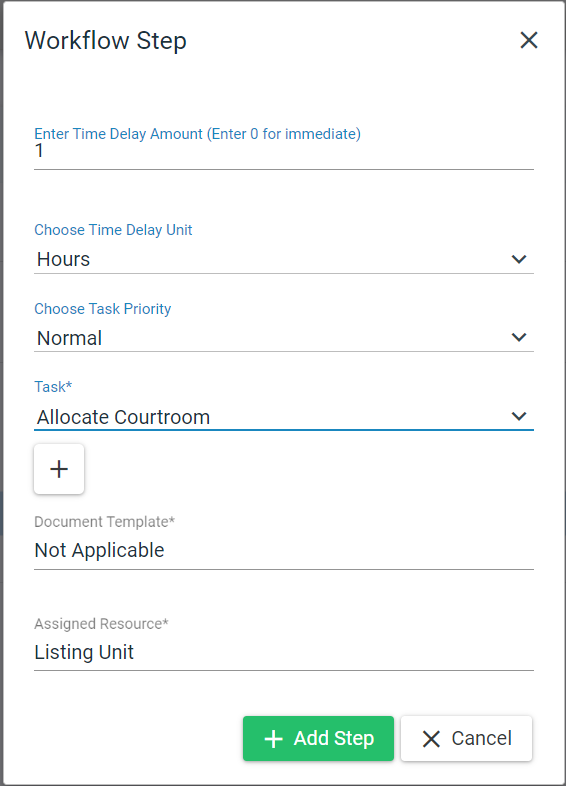
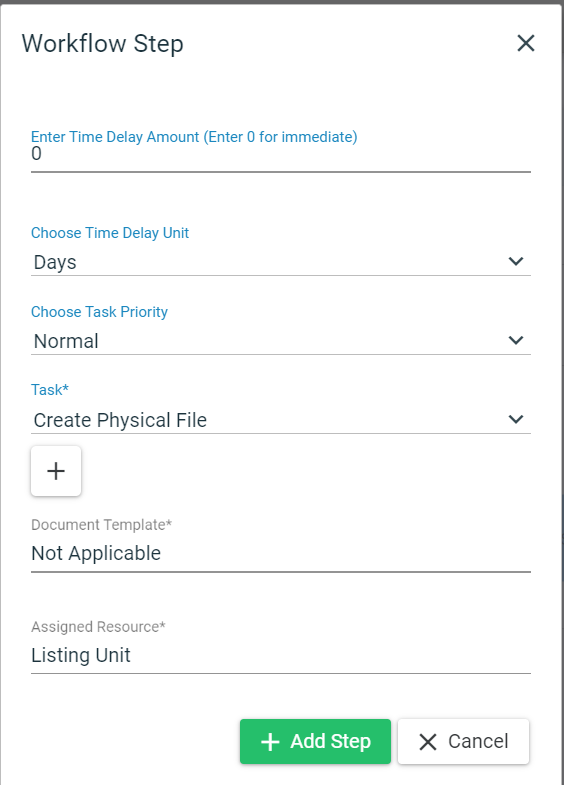
Manual Updated

diff --git a/manual/index.html b/manual/index.html
@@ -21,6 +21,10 @@
   <![endif]-->
 </head>
 <body>
+<section>
+	<img src="./images/ttjim-logo.png" />
+	<h3>Version 2.0 (Criminal Division)</h3>
+</section>
 <nav id="TOC" role="doc-toc">
 <ul>
 <li><a href="#tt.jim---the-court-case-management-system">TT.jim - The Court Case Management System</a>
@@ -83,10 +87,13 @@
 <li><a href="#adding-user-to-staff-pool">Adding User to Staff Pool</a></li>
 </ul></li>
 </ul></li>
-<li><a href="#event-workflows">Event Workflows</a></li>
+<li><a href="#event-workflows">Event Workflows</a>
+<ul>
+<li><a href="#creating-event-workflows">Creating Event Workflows</a></li>
+</ul></li>
 <li><a href="#lookup-tables">Lookup Tables</a>
 <ul>
-<li><a href="#updating-lookup-table">Updating Lookup Table</a></li>
+<li><a href="#updating-lookup-tables">Updating Lookup Tables</a></li>
 </ul></li>
 <li><a href="#thank-you-for-reading">Thank you for Reading!</a></li>
 </ul>
@@ -125,7 +132,7 @@ Version 2.0 (Criminal Division)
 <p>The <em>parties</em> to a case should be created before creating the actual case. Before attempting to create a party, the user should <strong>ALWAYS</strong> search TT.jim for the prospected party before entering it into the system. This practice prevents duplicate parties being entered into the Court Case Management System (CCMS). Duplicate entries should be avoided because Parties cannot be deleted from the system. This is a transparency feature implemented for auditing purposes.</p>
 <p>To search for a party, go to the party tab and select “Search Party”</p>
 <p><img src="./images/party-search.png" /></p>
-<p>Enter the first name or last name of the party you are looking for. This search does not search for a full name (Please be reminded of that). Click enter to complete your search.</p>
+<p>Enter the first name or last name or full name of the party you are looking for. You can even search using a party’s alias. Click enter to complete your search.</p>
 <p>The reset button clears the fields in preparation for another search.</p>
 <p><img src="./images/party-search-result.png" /></p>
 <p>If the user does not exist, the system would return zero results found.</p>
@@ -394,31 +401,147 @@ Version 2.0 (Criminal Division)
 <p>To search for a user enter a first name or last name in the search box and click/tap the search button. Partial names are also acceptable. The system will then return a list of results that match the search criteria or indicate if no results were found.</p>
 <p><img src="./images/search-user.png" /></p>
 <h3 id="creating-a-new-user-staff">Creating a New User (Staff)</h3>
-<p>If a user is not found after a search one, you can then create a new user. When creating a user input the standard bio data such as names and email address, then assign a password.</p>
-<p>Additionally, assign the user to a court that they represent and the role they will play. TT.jim supports the following roles:</p>
-<ol type="1">
-<li>Accounting Assistant</li>
-<li>Assistant Registrar &amp; Deputy Marshal</li>
-<li>Assistant Registrar and Deputy Marshall</li>
-<li>Case Management Officer</li>
-<li>Clerical assistance to Court Manager</li>
-<li>Counter Clerk</li>
-<li>Counter Supervisor</li>
-<li>Court Manager</li>
-<li>Court Staff</li>
-<li>Front Desk and Counter</li>
-<li>IT - Full access</li>
-<li>Judicial Officer</li>
-<li>Marshall</li>
-<li>Pre Hearing</li>
-<li>Read Only</li>
-<li>Records Supervisor</li>
-<li>Registrar</li>
-<li>TGO - Power User</li>
-<li>Typist / Data Entry</li>
-<li>Verification Officers</li>
-</ol>
+<p>If a user is not found after a search, you should then go ahead and create a new user. Tap the “New User” button on the User Management page to clear the USER DETAILS fields and scroll down to the now blank USER DETAILS fields.</p>
 <p><img src="./images/create-user.png" /></p>
+<p>When creating a staff user, the following fields are required:</p>
+<ol type="1">
+<li><p>First Name</p>
+<p>The first name of the staff. This will be displayed in the top right of the TT.jim window next to the default user avatar.</p></li>
+<li><p>Last Name</p>
+<p>The last name of the staff. This will be displayed in the top right of the TT.jim window next to the default user avatar.</p></li>
+<li><p>Email Address</p>
+<p>A valid email address that contains the, @, character with an identifier on the left and domain on the right. E.g. jdoe@ttlawcourts.org</p></li>
+<li><p>User Name</p>
+<p>The User Name should reflect the format of the Username in Active Directory. This is used to login to the system.</p></li>
+<li><p>Password</p>
+<p>The password must be at least 6 characters.</p></li>
+<li><p>Confirm Password</p>
+<p>The password must be retyped exactly as in the previous field.</p></li>
+</ol>
+<p>Additionally, a user must be assigned to at least one court and be assigned at least one role in that court before a user can be successfully created. TT.jim supports the following roles:</p>
+<ul>
+<li>Court Staff</li>
+<li>Supervisor</li>
+<li>Court Manager</li>
+<li>Judicial Officer</li>
+<li>IT - Full access</li>
+<li>Registrar</li>
+</ul>
+<p>See the table below for a list of roles, and the functions that each role is able to carry out in TT.jim.</p>
+<table style="width:100%;">
+<colgroup>
+<col style="width: 10%" />
+<col style="width: 14%" />
+<col style="width: 14%" />
+<col style="width: 16%" />
+<col style="width: 23%" />
+<col style="width: 10%" />
+<col style="width: 11%" />
+</colgroup>
+<thead>
+<tr class="header">
+<th>Function/Permission</th>
+<th>Court Staff</th>
+<th>Supervisor</th>
+<th>Court Manager</th>
+<th>Judicial Officer</th>
+<th>IT - Full access</th>
+<th>Registrar</th>
+</tr>
+</thead>
+<tbody>
+<tr class="odd">
+<td>Create Task</td>
+<td>No</td>
+<td>Yes</td>
+<td>Yes</td>
+<td>Yes</td>
+<td>Yes</td>
+<td>Yes</td>
+</tr>
+<tr class="even">
+<td>Edit Task Details (before being completed)</td>
+<td>No (only task checkout and completed fields)</td>
+<td>Yes</td>
+<td>Yes</td>
+<td>Yes</td>
+<td>Yes</td>
+<td>Yes</td>
+</tr>
+<tr class="odd">
+<td>Edit Payment Method and Receipt Number</td>
+<td>No</td>
+<td>No</td>
+<td>Yes</td>
+<td>No</td>
+<td>No</td>
+<td>No</td>
+</tr>
+<tr class="even">
+<td>Reimburse Payments</td>
+<td>No</td>
+<td>Yes</td>
+<td>no</td>
+<td>No</td>
+<td>No</td>
+<td>No</td>
+</tr>
+<tr class="odd">
+<td>Create a case</td>
+<td>Yes</td>
+<td>Yes</td>
+<td>No</td>
+<td>Yes</td>
+<td>Yes</td>
+<td>Yes</td>
+</tr>
+<tr class="even">
+<td>Create a Party</td>
+<td>Yes</td>
+<td>Yes</td>
+<td>No</td>
+<td>Yes</td>
+<td>Yes</td>
+<td>Yes</td>
+</tr>
+<tr class="odd">
+<td>Manage Staff Pools</td>
+<td>No</td>
+<td>Yes</td>
+<td>Yes</td>
+<td>No</td>
+<td>Yes</td>
+<td>No</td>
+</tr>
+<tr class="even">
+<td>Manage Workflows</td>
+<td>No</td>
+<td>No</td>
+<td>Yes</td>
+<td>No</td>
+<td>Yes</td>
+<td>No</td>
+</tr>
+<tr class="odd">
+<td>Manage Users</td>
+<td>No</td>
+<td>No</td>
+<td>No</td>
+<td>No</td>
+<td>Yes</td>
+<td>No</td>
+</tr>
+<tr class="even">
+<td>Seal Cases</td>
+<td>No</td>
+<td>No</td>
+<td>No</td>
+<td>No</td>
+<td>No</td>
+<td>Yes</td>
+</tr>
+</tbody>
+</table>
 <h2 id="staff-pool-management">Staff Pool Management</h2>
 <p>To simplify the management of users, TT.jim supports the use of staff pools to group users. This grouping is particularly useful for making various task visible to a whole class of staff.</p>
 <h3 id="searchingbrowsing-staff-pools">Searching/Browsing Staff Pools</h3>
@@ -429,13 +552,26 @@ Version 2.0 (Criminal Division)
 <p>TT.jim has the following staff pools: 1. Bail Management Unit 2. Bail Officer 3. Clerk Typists 4. Counter and Front Desk 5. Court Managers and Assistant Court Managers 6. Data Entry and Imaging Officer 7. Dispatch Management Unit 8. District Clerk of the Peace 9. Front Desk (only) - Further Data Entry and Imaging 10. JSO &amp; Ass. JSO 11. Judgement and Orders, Warrants, Summons etc. Unit 12. Judicial Support Officer (JSO) 13. Judicial Team 14. Justice of the Peace 15. Listing Unit 16. Magistracy Registrar 17. Magistracy Registrar and Clerk of the Court 18. Monitoring and Follow Up 19. Records Management Unit 20. Records Officer 21. Revenue Activities Unit 22. Statistical Unit 23. Transcriptionist 24. Verification Officers 25. Witness and Courtroom Support Unit</p>
 <p><img src="./images/add-staff-to-pool.png" /></p>
 <h1 id="event-workflows">Event Workflows</h1>
-<p>Event workflows determine the event or sequence of events that must occur when another action is initiated/completed. For example (contrived), take the <em>Case Created</em> Event. This event triggers two task: Calendar Next Date and Execution of Warrant. Hence, these task will be automatically populated in the task tab when a case is created and show up in the workbasket of all users connected in the <a href="#staff-pool-management">staff pool</a> associated with that case. It will even display how much time it should take to complete each task</p>
+<p>Event workflows determine the event or sequence of events/tasks that must occur when another action is initiated/completed. Event workflows help streamline common repetitive tasks, thus saving time and reducing the likelihood of human error.</p>
+<h2 id="creating-event-workflows">Creating Event Workflows</h2>
+<p>To create an event workflow, select “Event Workflow” from the Admin tab. Insert an Event Type and optional Description. Next click/tap the “Add Task Step” button to add the first of the series of steps needed for this workflow.</p>
+<p><img src="./images/event-workflows-blank.png" /></p>
+<p>When adding a task step, fill out the Workflow Step (see below) details and click the “Add Step” button. There are a couple of things to note concerning the workflow step details:</p>
+<ul>
+<li>The <strong>Time Delay</strong> is the amount of time a task should take to complete after a workflow event is triggered. You should also select the <strong>Units</strong> of the time delay.</li>
+<li>Select the task priority depending on how soon the task must be completed.</li>
+<li>The most important step is selecting the actual task that must be completed.</li>
+<li>You can optionally set a Document Template if the task required a document.</li>
+<li>It is highly recommended that you included an Assigned Resource. The Assigned Resource is the staff pool that will be notified about the creation of the task. Hence, this task will be automatically populated in the workbasket of the relevant <a href="#staff-pool-management">staff pool</a>.</li>
+</ul>
+<p><img src="./images/workflow-step.png" /></p>
+<p>When the workflow step is added, it will then become visible in the Workflow Steps table as seen below.</p>
 <p><img src="./images/event-workflows.png" /></p>
 <h1 id="lookup-tables">Lookup Tables</h1>
 <p>Lookup tables manage all the reference data used to populate the multitude of dropdown menu options present in TT.jim.</p>
 <p>For example when creating a case and one must choose a <em>case type</em>, it is the lookup table below that populates the various case types such as Bail Applications, Indicatable Offences, Anti-Gang Act and more.</p>
 <p><img src="./images/lookup-tables.png" /> Figure: Lookup table for Case Type</p>
-<h2 id="updating-lookup-table">Updating Lookup Table</h2>
+<h2 id="updating-lookup-tables">Updating Lookup Tables</h2>
 <p>If the current set of data points do not meet your needs, you can update the lookup tables with your own custom data points by clicking/tapping the blue <em>New Data Item</em> button in the left pane. You will then be required to enter a name, short name and description for your new data point. When you are finished click save.</p>
 <p><img src="./images/append-lookup-table.png" /></p>
 <p>Now, whenever a case is created, you will see the case type we created appear as an option. <img src="./images/custom-case-type.png" /></p>
